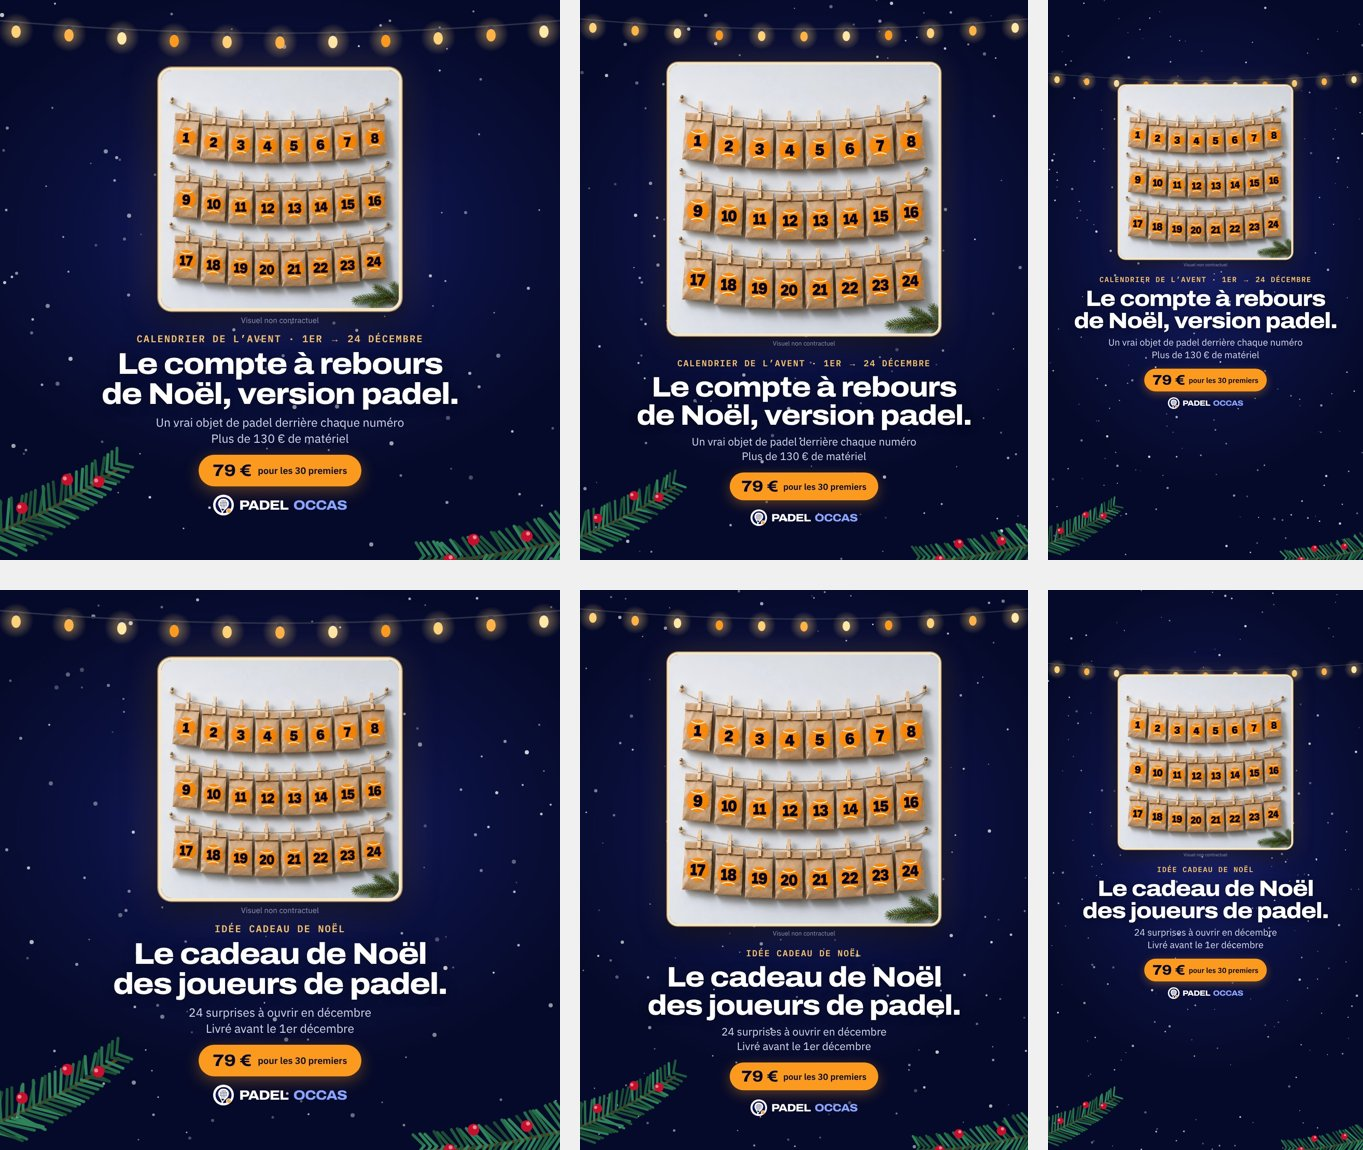
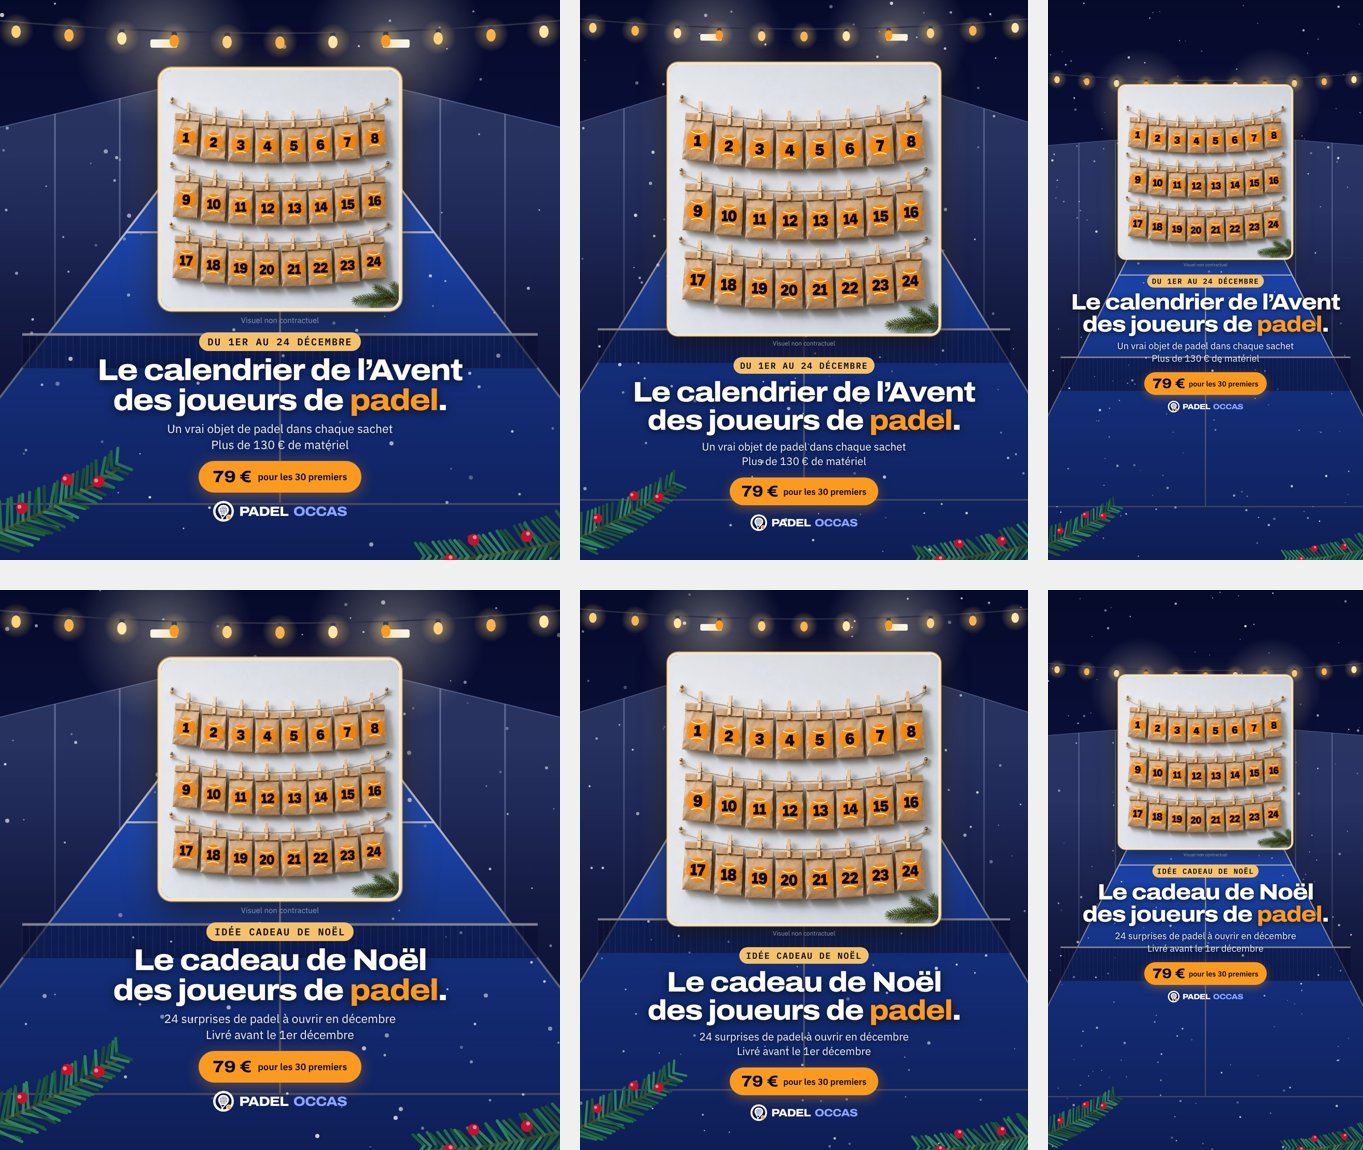
Pubs Meta — décor terrain de padel, titres centrés sur le padel ; prompts OpenArt sur un terrain
Claude-Session: https://claude.ai/code/session_019D3zZFY3edwsYLJmSPcafF

diff --git a/pubs-meta/source/gen_pubs2.py b/pubs-meta/source/gen_pubs2.py
@@ -2,8 +2,8 @@ import sys, random
 P=sys.argv[1]
 random.seed(12)
 angles={
- 'pour-vous':{'eyebrow':'Calendrier de l’Avent · 1er → 24 décembre','titre':'Le compte à rebours<br>de Noël, version padel.','sous':'Un vrai objet de padel derrière chaque numéro<br>Plus de 130&nbsp;€ de matériel'},
- 'cadeau':{'eyebrow':'Idée cadeau de Noël','titre':'Le cadeau de Noël<br>des joueurs de padel.','sous':'24 surprises à ouvrir en décembre<br>Livré avant le 1er&nbsp;décembre'},
+ 'pour-vous':{'eyebrow':'Du 1er au 24 décembre','titre':'Le calendrier de l’Avent<br>des joueurs de <span class="p">padel</span>.','sous':'Un vrai objet de padel dans chaque sachet<br>Plus de 130&nbsp;€ de matériel'},
+ 'cadeau':{'eyebrow':'Idée cadeau de Noël','titre':'Le cadeau de Noël<br>des joueurs de <span class="p">padel</span>.','sous':'24 surprises de padel à ouvrir en décembre<br>Livré avant le 1er&nbsp;décembre'},
 }
 formats={'carre':(1080,1080),'4x5':(1080,1350),'story':(1080,1920)}
 sizes={
@@ -42,20 +42,57 @@ def sprig(x,y,scale,rot,flip=1):
     for (bx,by) in [(70,-28),(150,-48),(195,-30)]:
         g+=f'<circle cx="{bx}" cy="{by}" r="9" fill="#C8102E"/><circle cx="{bx-3}" cy="{by-3}" r="3" fill="#fff" opacity=".5"/>'
     return g+'</g>'
+def court(w,h,hz):
+    # sol bleu en perspective, lignes blanches, vitres latérales, filet, projecteurs
+    cx=w/2; top_w=w*0.34; bot_w=w*1.5; y0=hz; y1=h+40
+    def X(t,side): # t : 0 en haut, 1 en bas ; side -1 / +1
+        half=top_w/2+(bot_w/2-top_w/2)*t
+        return cx+side*half
+    s=f'<defs><linearGradient id="sol" x1="0" y1="0" x2="0" y2="1"><stop offset="0" stop-color="#1D4FC4"/><stop offset="1" stop-color="#2F6BFF"/></linearGradient>'
+    s+='<linearGradient id="vitre" x1="0" y1="0" x2="0" y2="1"><stop offset="0" stop-color="#9FC0FF" stop-opacity=".22"/><stop offset="1" stop-color="#9FC0FF" stop-opacity=".06"/></linearGradient>'
+    s+='<linearGradient id="voile" x1="0" y1="0" x2="0" y2="1"><stop offset="0" stop-color="#060A2A" stop-opacity="0"/><stop offset=".45" stop-color="#060A2A" stop-opacity=".55"/><stop offset="1" stop-color="#060A2A" stop-opacity=".82"/></linearGradient>'
+    s+='<radialGradient id="spot"><stop offset="0" stop-color="#FFF6DA" stop-opacity=".95"/><stop offset="1" stop-color="#FFF6DA" stop-opacity="0"/></radialGradient></defs>'
+    # mur du fond (vitre) + sol
+    s+=f'<rect x="{X(0,-1):.0f}" y="{y0-h*0.13:.0f}" width="{top_w:.0f}" height="{h*0.13:.0f}" fill="url(#vitre)" stroke="#BFD3FF" stroke-opacity=".35" stroke-width="2"/>'
+    s+=f'<path d="M{X(0,-1):.0f} {y0} L{X(0,1):.0f} {y0} L{X(1,1):.0f} {y1} L{X(1,-1):.0f} {y1} Z" fill="url(#sol)"/>'
+    # vitres latérales
+    for side in (-1,1):
+        s+=f'<path d="M{X(0,side):.0f} {y0} L{X(0,side):.0f} {y0-h*0.13:.0f} L{X(1,side)+side*0:.0f} {y1-h*0.75:.0f} L{X(1,side):.0f} {y1} Z" fill="url(#vitre)" stroke="#BFD3FF" stroke-opacity=".3" stroke-width="2"/>'
+        for k in range(1,5):
+            t=k/5; xa=X(t,side); ya=y0+(y1-y0)*t
+            s+=f'<line x1="{xa:.0f}" y1="{ya:.0f}" x2="{xa:.0f}" y2="{ya-(h*0.13+(h*0.75-h*0.13)*t):.0f}" stroke="#C9D7F5" stroke-opacity=".35" stroke-width="3"/>'
+    # lignes du terrain
+    ln='stroke="#FFFFFF" stroke-opacity=".85" stroke-width="4" fill="none"'
+    s+=f'<path d="M{X(0,-1):.0f} {y0} L{X(1,-1):.0f} {y1} M{X(0,1):.0f} {y0} L{X(1,1):.0f} {y1}" {ln}/>'
+    for t in (0.18,0.82):
+        ya=y0+(y1-y0)*t; s+=f'<line x1="{X(t,-1):.0f}" y1="{ya:.0f}" x2="{X(t,1):.0f}" y2="{ya:.0f}" {ln}/>'
+    s+=f'<line x1="{cx:.0f}" y1="{y0+(y1-y0)*0.18:.0f}" x2="{cx:.0f}" y2="{y0+(y1-y0)*0.82:.0f}" {ln}/>'
+    # filet
+    tn=0.5; yn=y0+(y1-y0)*tn; xl=X(tn,-1); xr=X(tn,1); nh=h*0.06
+    s+=f'<rect x="{xl:.0f}" y="{yn-nh:.0f}" width="{xr-xl:.0f}" height="{nh:.0f}" fill="#0A0F33" fill-opacity=".55"/>'
+    for i in range(0,int((xr-xl)/14)): s+=f'<line x1="{xl+i*14:.0f}" y1="{yn-nh:.0f}" x2="{xl+i*14:.0f}" y2="{yn:.0f}" stroke="#E8EEFF" stroke-opacity=".25" stroke-width="1"/>'
+    s+=f'<line x1="{xl:.0f}" y1="{yn-nh:.0f}" x2="{xr:.0f}" y2="{yn-nh:.0f}" stroke="#FFFFFF" stroke-width="5"/>'
+    # projecteurs
+    for fx in (X(0,-1)-40, X(0,1)+40):
+        s+=f'<circle cx="{fx:.0f}" cy="{y0-h*0.2:.0f}" r="{w*0.16:.0f}" fill="url(#spot)" opacity=".35"/><rect x="{fx-26:.0f}" y="{y0-h*0.2-8:.0f}" width="52" height="16" rx="4" fill="#F7F3E6"/>'
+    # voile sombre pour la lisibilité du texte
+    s+=f'<rect x="0" y="{y0:.0f}" width="{w}" height="{h-y0+40:.0f}" fill="url(#voile)"/>'
+    return s
 CSS='''@font-face{font-family:Archivo;src:url(archivo.woff2);font-weight:400 900;font-stretch:62% 125%}
 @font-face{font-family:PlexMono;src:url(plexmono.woff2);font-weight:600}
 @font-face{font-family:PlexSans;src:url(plexsans.woff2);font-weight:400 700}
 *{box-sizing:border-box;margin:0}html,body{width:{w}px;height:{h}px;overflow:hidden;background:#060A2A}
-.c{position:relative;width:{w}px;height:{h}px;background:radial-gradient(ellipse 75% 55% at 50% 42%,#1B2470 0%,#0B1140 45%,#060A2A 80%);overflow:hidden}
+.c{position:relative;width:{w}px;height:{h}px;background:linear-gradient(#060A2A,#0B1140 40%,#060A2A);overflow:hidden}
 svg.deco{position:absolute;inset:0;z-index:1}
 .in{position:relative;z-index:2;padding-top:{top}px;display:flex;flex-direction:column;align-items:center}
 .photo{width:{ph}px;height:{ph}px;border-radius:26px;overflow:hidden;border:6px solid #F5E6C8;box-shadow:0 0 0 2px rgba(245,194,107,.6),0 22px 60px rgba(0,0,0,.55),0 0 80px rgba(255,190,90,.18);flex:none}
 .photo img{width:100%;height:100%;object-fit:cover;display:block}
 .nc{margin-top:8px;font-family:PlexSans;font-size:15px;color:#8C93B0}
 .txt{text-align:center;margin-top:{gap}px;padding:0 50px}
-.eyebrow{font-family:PlexMono;font-weight:600;font-size:{eb}px;letter-spacing:.1em;text-transform:uppercase;color:#F5C26B}
-h1{font-family:Archivo;font-weight:800;font-variation-settings:"wdth" 112;font-size:{t}px;line-height:1;letter-spacing:-.03em;color:#fff;margin:{m1}px 0 {m2}px;text-shadow:0 2px 24px rgba(0,0,0,.4)}
-.sous{font-family:PlexSans;font-size:{s}px;line-height:1.35;color:#D5DAEC}
+.eyebrow{display:inline-block;font-family:PlexMono;font-weight:600;font-size:{eb}px;letter-spacing:.1em;text-transform:uppercase;color:#060A2A;background:#F5C26B;border-radius:999px;padding:6px 16px}
+h1{font-family:Archivo;font-weight:800;font-variation-settings:"wdth" 112;font-size:{t}px;line-height:1;letter-spacing:-.03em;color:#fff;margin:{m1}px 0 {m2}px;text-shadow:0 3px 18px rgba(0,0,0,.7)}
+h1 .p{color:#FC9A20}
+.sous{font-family:PlexSans;font-size:{s}px;line-height:1.35;color:#EEF1FA;text-shadow:0 2px 10px rgba(0,0,0,.7)}
 .prix{display:inline-flex;align-items:center;gap:12px;margin-top:{m3}px;background:#FC9A20;color:#060A2A;border-radius:999px;padding:13px 28px;font-family:Archivo;font-weight:800;font-variation-settings:"wdth" 112;font-size:{p}px;box-shadow:0 8px 30px rgba(252,154,32,.35)}
 .prix small{font-family:PlexSans;font-weight:600;font-size:{ps}px}
 .logo{margin-top:{lg}px;display:flex;align-items:center;gap:10px;font-family:Archivo;font-weight:800;font-variation-settings:"wdth" 112;font-size:26px;letter-spacing:-.045em;color:#fff}
@@ -66,7 +103,7 @@ for a,tx in angles.items():
         for k,v in d.items(): css=css.replace('{'+k+'}',str(v))
         gy={'carre':38,'4x5':44,'story':250}[f]
         deco=f'''<svg class="deco" viewBox="0 0 {w} {h}" width="{w}" height="{h}"><defs><radialGradient id="halo"><stop offset="0" stop-color="#FFD27A" stop-opacity=".9"/><stop offset="1" stop-color="#FFD27A" stop-opacity="0"/></radialGradient></defs>
-{snow(w,h,int(w*h/9000))}{garland(w,gy,26,11)}
+{court(w,h,{'carre':300,'4x5':360,'story':720}[f])}{snow(w,h,int(w*h/11000))}{garland(w,gy,26,11)}
 {sprig(-30,h-40,1.25,-18)}{sprig(w+30,h-40,1.25,-18,-1)}</svg>'''
         html=f'''<!doctype html><html lang="fr"><head><meta charset="utf-8"><style>{css}</style></head><body><div class="c">{deco}<div class="in">
 <div class="photo"><img src="calendrier.jpg" alt=""></div><div class="nc">Visuel non contractuel</div>

diff --git a/pubs-meta/prompts-openart.md b/pubs-meta/prompts-openart.md
@@ -6,7 +6,7 @@ Dans OpenArt, choisis **Image to Video**, importe `source/calendrier.jpg` (ta ph
 
 Prompt :
 
-> Slow cinematic push-in on a handmade advent calendar hanging on a light wall: 24 kraft paper bags with orange padel-ball stickers numbered 1 to 24, held by wooden pegs on jute strings. Warm golden fairy lights gently twinkle above the calendar, soft snowflakes drift slowly in front of the camera, a pine branch in the bottom corner sways slightly. Cozy Christmas evening atmosphere, warm soft light, shallow depth of field. The bags and numbers stay perfectly still and sharp. No people, no hands, no text, no logos.
+> Slow cinematic push-in on a handmade advent calendar hanging on the glass wall of an indoor padel court at night, blue court floor and white lines visible below: 24 kraft paper bags with orange padel-ball stickers numbered 1 to 24, held by wooden pegs on jute strings. Warm golden fairy lights gently twinkle above the calendar, soft snowflakes drift slowly in front of the camera, a pine branch in the bottom corner sways slightly. Cozy Christmas evening atmosphere, warm soft light, shallow depth of field. The bags and numbers stay perfectly still and sharp. No people, no hands, no text, no logos.
 
 Si l'outil a un champ « negative prompt » :
 
@@ -14,11 +14,13 @@ Si l'outil a un champ « negative prompt » :
 
 **À vérifier** : les numéros ne doivent pas se déformer pendant la vidéo. Si ça arrive, relance avec un mouvement plus faible (« very subtle camera movement »).
 
-## 2. Image d'ambiance de Noël (pour remplacer la photo sur fond gris)
+## 2. Image d'ambiance : le calendrier sur un terrain de padel décoré pour Noël
+
+Pas de raquette ni de balles dans l'image : les gens croiraient qu'elles sont dans le calendrier.
 
 Choisis **Text to Image** ou **Image to Image** avec ta photo, format **4:5**.
 
-> Realistic lifestyle product photo, cozy Christmas living room in the evening. A handmade advent calendar hangs on a warm beige wall: 24 kraft paper bags with folded tops, held by light wooden clothespins on three jute strings, 8 bags per string. Each bag has a round orange padel-ball sticker (#FC9A20) with curved white seams and a bold navy number (#060A2A), numbers 1 to 24, each exactly once. Next to it, a decorated Christmas tree with warm golden fairy lights, soft bokeh, a padel racket leaning against a wooden sideboard below the calendar. Warm, soft, inviting light, high detail, sharp numbers. No people, no brand logos, no other text.
+> Realistic lifestyle photo, indoor padel court at night decorated for Christmas: blue court floor with white lines, glass walls, the net in the background, warm golden fairy lights along the top of the glass walls, a small decorated Christmas tree in the corner of the court. A handmade advent calendar hangs on the glass wall: 24 kraft paper bags with folded tops, held by light wooden clothespins on three jute strings, 8 bags per string. Each bag has a round orange padel-ball sticker (#FC9A20) with curved white seams and a bold navy number (#060A2A), numbers 1 to 24, each exactly once. Soft bokeh from the court floodlights. Warm, soft, inviting light, high detail, sharp numbers. No people, no brand logos, no other text.
 
 ## Ensuite
 
